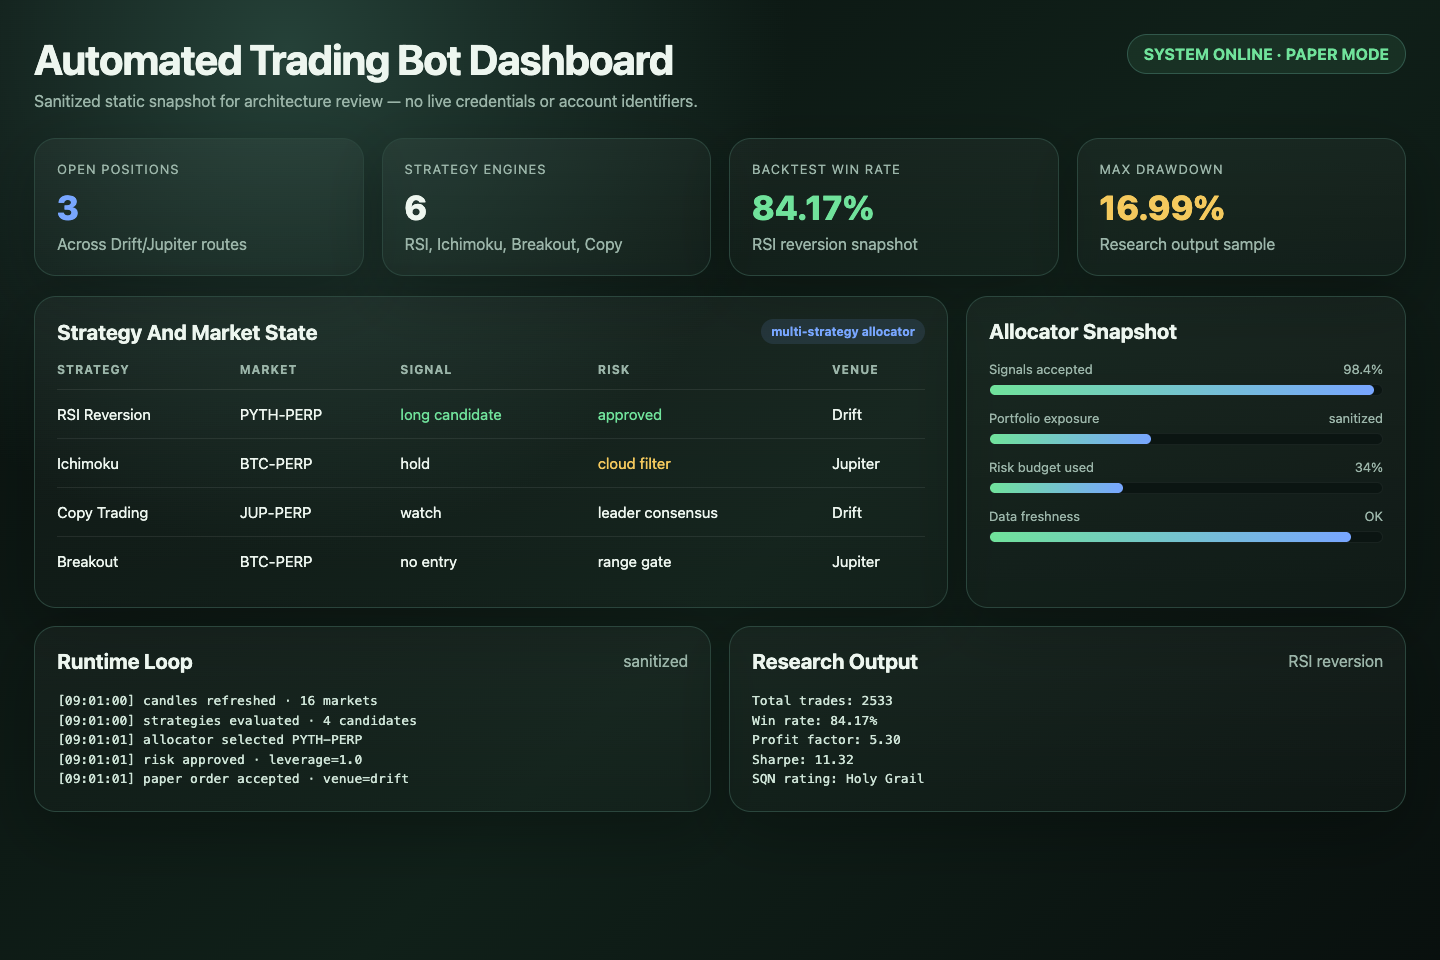
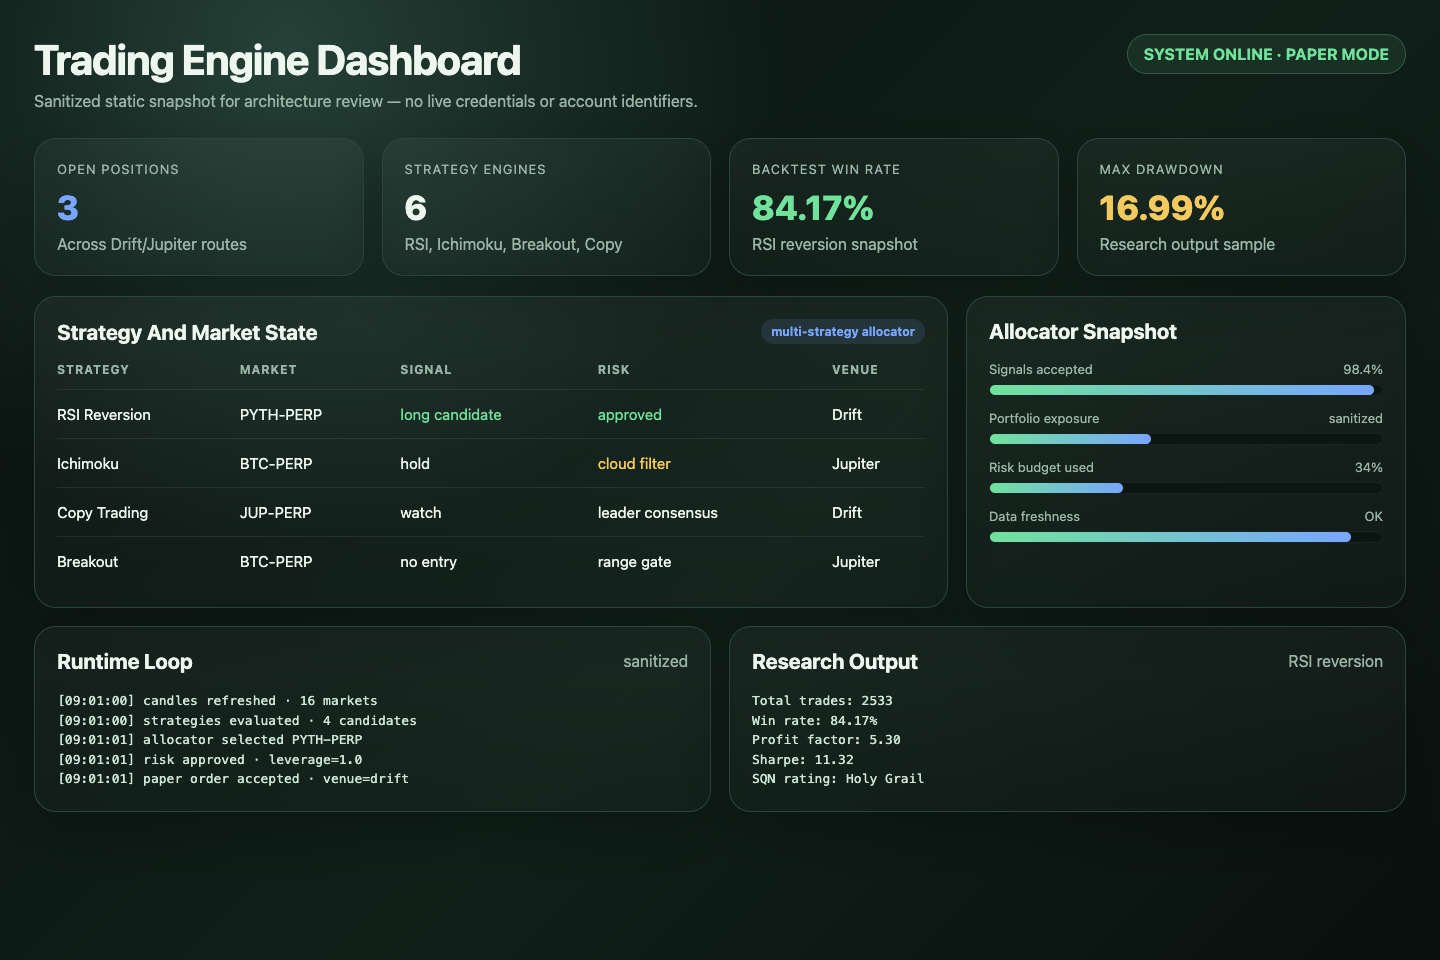
docs: rename dashboard to trading engine

Changed region(s): [[0.0312, 0.0312, 0.4688, 0.0938]]

diff --git a/snapshots/dashboard/dashboard-snapshot.html b/snapshots/dashboard/dashboard-snapshot.html
@@ -3,7 +3,7 @@
 <head>
   <meta charset="utf-8" />
   <meta name="viewport" content="width=device-width, initial-scale=1" />
-  <title>Trading Bot Dashboard Snapshot</title>
+  <title>Trading Engine Dashboard Snapshot</title>
   <style>
     :root { --bg:#0d1412; --panel:#13211d; --panel2:#172b25; --line:#2b463d; --text:#edf6ef; --muted:#9bb5a9; --green:#70e29b; --amber:#f4c95d; --red:#ef6f6c; --blue:#78a6ff; }
     * { box-sizing:border-box; }
@@ -38,7 +38,7 @@
 <body>
   <div class="wrap">
     <header>
-      <div><h1>Automated Trading Bot Dashboard</h1><div class="sub">Sanitized static snapshot for architecture review — no live credentials or account identifiers.</div></div>
+      <div><h1>Trading Engine Dashboard</h1><div class="sub">Sanitized static snapshot for architecture review — no live credentials or account identifiers.</div></div>
       <div class="badge">SYSTEM ONLINE · PAPER MODE</div>
     </header>
     <div class="grid">

diff --git a/README.md b/README.md
@@ -56,7 +56,7 @@ The `snapshots/` folder includes static review artifacts: a dashboard screenshot
 
 ```mermaid
 flowchart TD
-  T[Telegram Bot] --> A[Auth, Rate Limit, Callback Sanitization]
+  T[Telegram Control Layer] --> A[Auth, Rate Limit, Callback Sanitization]
 
   A --> S[Status and Info]
   S --> S1["/start"]
@@ -75,7 +75,7 @@ flowchart TD
   W --> W4["/leaders watch"]
   W --> W5["/followhealth"]
 
-  A --> C[Bot Controls]
+  A --> C[Engine Controls]
   C --> C1["/pause"]
   C --> C2["/resume"]
   C --> C3["/closeall"]